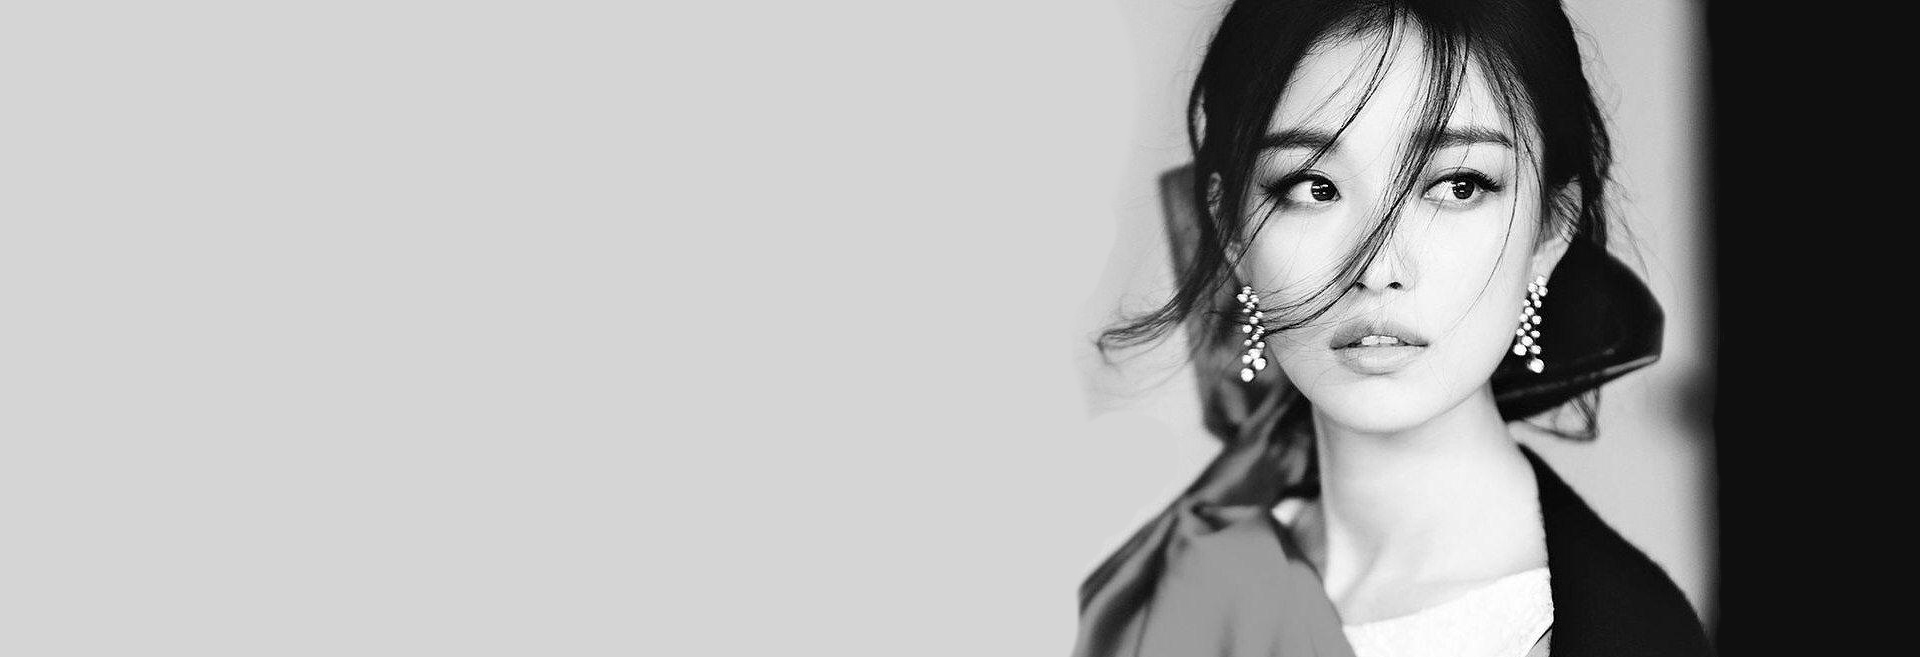
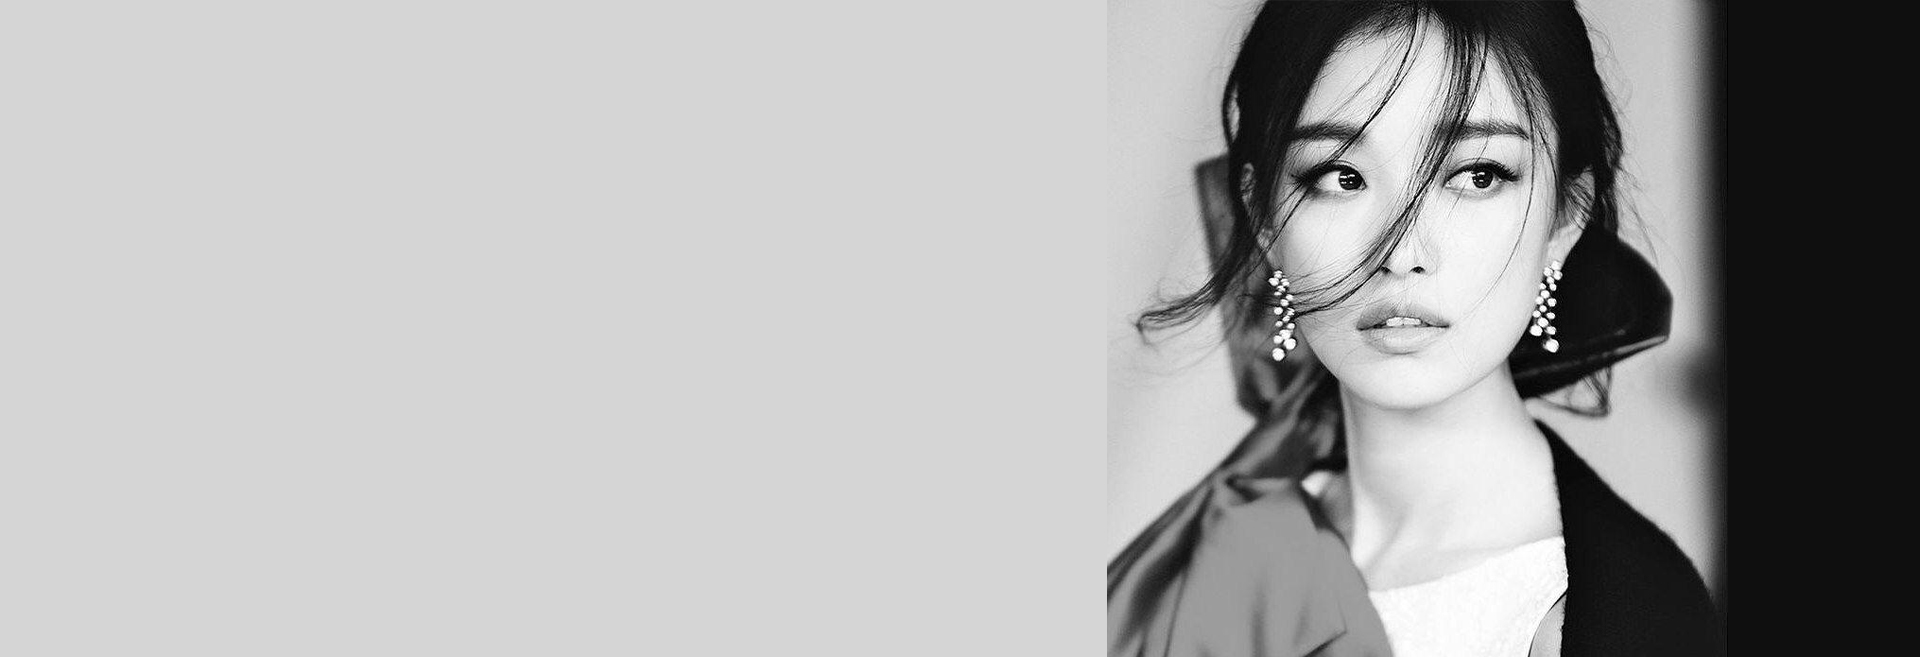
payment editing

Changed region(s): [[0.5312, 0.0, 0.9062, 1.0]]

diff --git a/resources/views/front/index.blade.php b/resources/views/front/index.blade.php
@@ -25,7 +25,7 @@
                                                      height="657"
                                                      data-lazyload="images/slideshow/slider_1920x657.jpg"/>
                                             @else
-                                                <img src="front/images/slideshow/zxc.jpg" alt="" width="1920"
+                                                <img src="front/images/slideshow/girl.jpg" alt="" width="1920"
                                                      height="657"
                                                      data-lazyload="images/slideshow/slider_1920x657.jpg"/>
                                             @endif
@@ -39,37 +39,53 @@
                                             {{--                                                 data-splitin="chars" data-splitout="none" data-responsive_offset="on"--}}
                                             {{--                                                 data-elementdelay="0.05" id="{{$stream->id}}timer">--}}
                                             {{--                                            </div>--}}
+                                            <div class="tp-caption home3-big-black tp-resizeme" data-x="125"
+                                                 data-y="150"
+                                                 data-width="['auto']" data-height="['auto']" data-transform_idle="o:1;"
+                                                 data-transform_in="y:[-100%];z:0;rZ:35deg;sX:1;sY:1;skX:0;skY:0;s:2000;e:Power4.easeInOut;"
+                                                 data-transform_out="rZ:0deg;sX:0.7;sY:0.7;opacity:0;s:500;e:Back.easeIn;s:500;e:Back.easeIn;"
+                                                 data-mask_in="x:0px;y:0px;s:inherit;e:inherit;"
+                                                 data-mask_out="x:0;y:0;s:inherit;e:inherit;" data-start="500"
+                                                 data-splitin="chars" data-splitout="none" data-responsive_offset="on"
+                                                 data-elementdelay="0.05">{{$course->name}}
+                                            </div>
                                             <div class="tp-caption tp-resizeme" data-x="125" data-y="300"
                                                  data-width="['none','none','none','none']"
-                                                 data-height="['none','none','none','none']" data-transform_idle="o:1;"
+                                                 data-height="['none','none','none','none']"
+                                                 data-transform_idle="o:1;"
                                                  data-transform_in="y:[-100%];z:0;rZ:35deg;sX:1;sY:1;skX:0;skY:0;s:2000;e:Power4.easeInOut;"
                                                  data-transform_out="rZ:0deg;sX:0.7;sY:0.7;opacity:0;s:500;e:Back.easeIn;s:500;e:Back.easeIn;"
                                                  data-mask_in="x:0px;y:0px;s:inherit;e:inherit;"
                                                  data-mask_out="x:0;y:0;s:inherit;e:inherit;" data-start="500"
                                                  data-responsive_offset="on" data-elementdelay="0.05">
+                                                <h3>Цена: {{$course->price}} тенге</h3>
                                             </div>
-                                            <div class="tp-caption home1-small-black tp-resizeme mt-3" data-x="125"
-                                                 data-y="360"
-                                                 data-width="['auto']" data-height="['auto']" data-transform_idle="o:1;"
+                                            @if($course->name != 'Разбор косметики')
+                                                <div class="tp-caption tp-resizeme" data-x="125" data-y="350"
+                                                     data-width="['none','none','none','none']"
+                                                     data-height="['none','none','none','none']"
+                                                     data-transform_idle="o:1;"
+                                                     data-transform_in="y:[-100%];z:0;rZ:35deg;sX:1;sY:1;skX:0;skY:0;s:2000;e:Power4.easeInOut;"
+                                                     data-transform_out="rZ:0deg;sX:0.7;sY:0.7;opacity:0;s:500;e:Back.easeIn;s:500;e:Back.easeIn;"
+                                                     data-mask_in="x:0px;y:0px;s:inherit;e:inherit;"
+                                                     data-mask_out="x:0;y:0;s:inherit;e:inherit;" data-start="500"
+                                                     data-responsive_offset="on" data-elementdelay="0.05">
+                                                    Скидка 20% при репосте <a href="#">видео</a> в Stories
+                                                </div>
+                                            @endif
+                                            <div class="tp-caption tp-resizeme" data-x="125" data-y="430"
+                                                 data-width="['none','none','none','none']"
+                                                 data-height="['none','none','none','none']"
+                                                 data-transform_idle="o:1;"
                                                  data-transform_in="y:[-100%];z:0;rZ:35deg;sX:1;sY:1;skX:0;skY:0;s:2000;e:Power4.easeInOut;"
                                                  data-transform_out="rZ:0deg;sX:0.7;sY:0.7;opacity:0;s:500;e:Back.easeIn;s:500;e:Back.easeIn;"
                                                  data-mask_in="x:0px;y:0px;s:inherit;e:inherit;"
                                                  data-mask_out="x:0;y:0;s:inherit;e:inherit;" data-start="500"
-                                                 data-splitin="chars" data-splitout="none" data-responsive_offset="on"
-                                                 data-elementdelay="0.05">
-                                                Цена:
-                                                {{$course->price}} тенге
-                                            </div>
-                                            <div class="tp-caption home3-big-black tp-resizeme" data-x="125"
-                                                 data-y="188"
-                                                 data-width="['auto']" data-height="['auto']" data-transform_idle="o:1;"
-                                                 data-transform_in="y:[-100%];z:0;rZ:35deg;sX:1;sY:1;skX:0;skY:0;s:2000;e:Power4.easeInOut;"
-                                                 data-transform_out="rZ:0deg;sX:0.7;sY:0.7;opacity:0;s:500;e:Back.easeIn;s:500;e:Back.easeIn;"
-                                                 data-mask_in="x:0px;y:0px;s:inherit;e:inherit;"
-                                                 data-mask_out="x:0;y:0;s:inherit;e:inherit;" data-start="500"
-                                                 data-splitin="chars" data-splitout="none" data-responsive_offset="on"
-                                                 data-elementdelay="0.05">
-                                                {{$course->name}}
+                                                 data-responsive_offset="on" data-elementdelay="0.05">
+                                                <a class="read-more btn btn-outline"
+                                                   href="{{route('make.order' ,['id'=>$course->id ])}}">
+                                                    <span class="text-muted">Купить</span>
+                                                </a>
                                             </div>
                                         </li>
                                     @endforeach
@@ -89,6 +105,7 @@
                                              data-mask_in="x:0px;y:0px;s:inherit;e:inherit;"
                                              data-mask_out="x:0;y:0;s:inherit;e:inherit;" data-start="500"
                                              data-responsive_offset="on" data-elementdelay="0.05">
+                                            Сделай подарок сестре, подруге или маме
                                         </div>
                                         <div class="tp-caption home3-big-black tp-resizeme" data-x="125"
                                              data-y="188"
@@ -99,7 +116,7 @@
                                              data-mask_out="x:0;y:0;s:inherit;e:inherit;" data-start="500"
                                              data-splitin="chars" data-splitout="none" data-responsive_offset="on"
                                              data-elementdelay="0.05">
-                                            С НГ :)
+                                            С наступающим :)
                                         </div>
                                     </li>
                                 </ul>
@@ -153,11 +170,11 @@
                                                     <div class="entry-info" @if($index % 2 == 0) style="float: left"
                                                          @else style="float: right" @endif>
                                                         <div class="entry-header">
-                                                            <h3 class="entry-title">
+                                                            <h1 class="entry-title">
                                                                 <a href="{{route('single.course', ['id' => $course->id])}}">
                                                                     {{$course->name}}
                                                                 </a>
-                                                            </h3>
+                                                            </h1>
                                                         </div>
                                                         <div class="entry-content">
                                                             <p>

diff --git a/resources/views/auth/payment.blade.php b/resources/views/auth/payment.blade.php
@@ -16,7 +16,7 @@
                             <input type="hidden" name="label" value="{{$user->id.'='.$course->id}}">
                             <input type="hidden" name="quickpay-form" value="shop">
                             <input type="hidden" name="targets" value="транзакция за курс {{$course->name}}">
-                            <input type="hidden" name="sum" value="{{$course->price*1.02}}" data-type="number">
+                            <input type="hidden" name="sum" value="{{$course->price}}" data-type="number">
                             <input type="hidden" name="need-fio" value="false">
                             <input type="hidden" name="need-email" value="false">
                             <input type="hidden" name="need-phone" value="false">
@@ -24,11 +24,26 @@
                             <input type="hidden" name="successURL" value="{{route('pay.finish')}}">
                             <label for="paymentType">Выберите способ оплаты</label>
                             <select class="form-control" name="paymentType" id="paymentType">
-                                <option value="PC">Яндекс.Деньгами</option>
                                 <option value="AC">Банковской картой</option>
+                                <option value="PC">Яндекс.Деньгами</option>
                             </select>
                             <br>
-                            <h3>Сумма с учетом комиссии: {{$course->price*1.02}} тенге</h3>
+                            <h3>Сумма к оплате: {{$course->price}} тенге</h3>
+                            <p>*комиссия за счет GlamBlog</p>
+                            @if($course->name != 'Разбор косметики')
+                                <input type="checkbox" id="repost"> Я сделал репост <br>
+                                <script type="text/javascript">
+                                    $(document).ready(function(){
+
+                                        if($("#repost").attr("checked") == 'checked') {
+                                            $('#target').submit(function(){});
+                                        } else {
+                                            window.alert('Дайте свое согласие на обработку данных!');
+                                            $("#agree").css('border', '1px solid red');
+                                        }
+                                    });
+                                </script>
+                            @endif
                             <br>
                             <input class="btn btn-success" type="submit" value="Перейти к оплате">
                         </form>

diff --git a/app/Http/Controllers/UserSideController.php b/app/Http/Controllers/UserSideController.php
@@ -107,24 +107,20 @@ class UserSideController extends Controller
         $user = Auth::user();
         if (!$user) {
             Session::flash('warning', 'Войдите в систему, либо зарегистрируйтесь!');
-            return redirect()->route('register');
+            return redirect()->route('login');
         } else {
             if ($user->subscriptions()->where('status', 1)->where('course_id', $course_id)->first()) {
                 Session::flash('warning', 'Вы уже записаны!');
                 return redirect()->back();
             }
 
-            if($course_id == 2) {
+            $course = Course::find($course_id);
+
+            if($course->name == 'Разбор косметики' && !$user->survey()->where('status', 1)->first()) {
                 Session::flash('warning', 'Пройдите опрос для данного курса');
                 return redirect()->route('survey');
             }
 
-//            Subscription::create([
-//                'user_id' => $user->id,
-//                'course_id' => $course_id,
-//                'status' => 1,
-//            ]);
-            Session::flash('success', 'Ваша заявка принята! Мы вам обязательно позвоним!');
             return redirect()->route('pay.course', ['id'=>$course_id]);
         }
 
